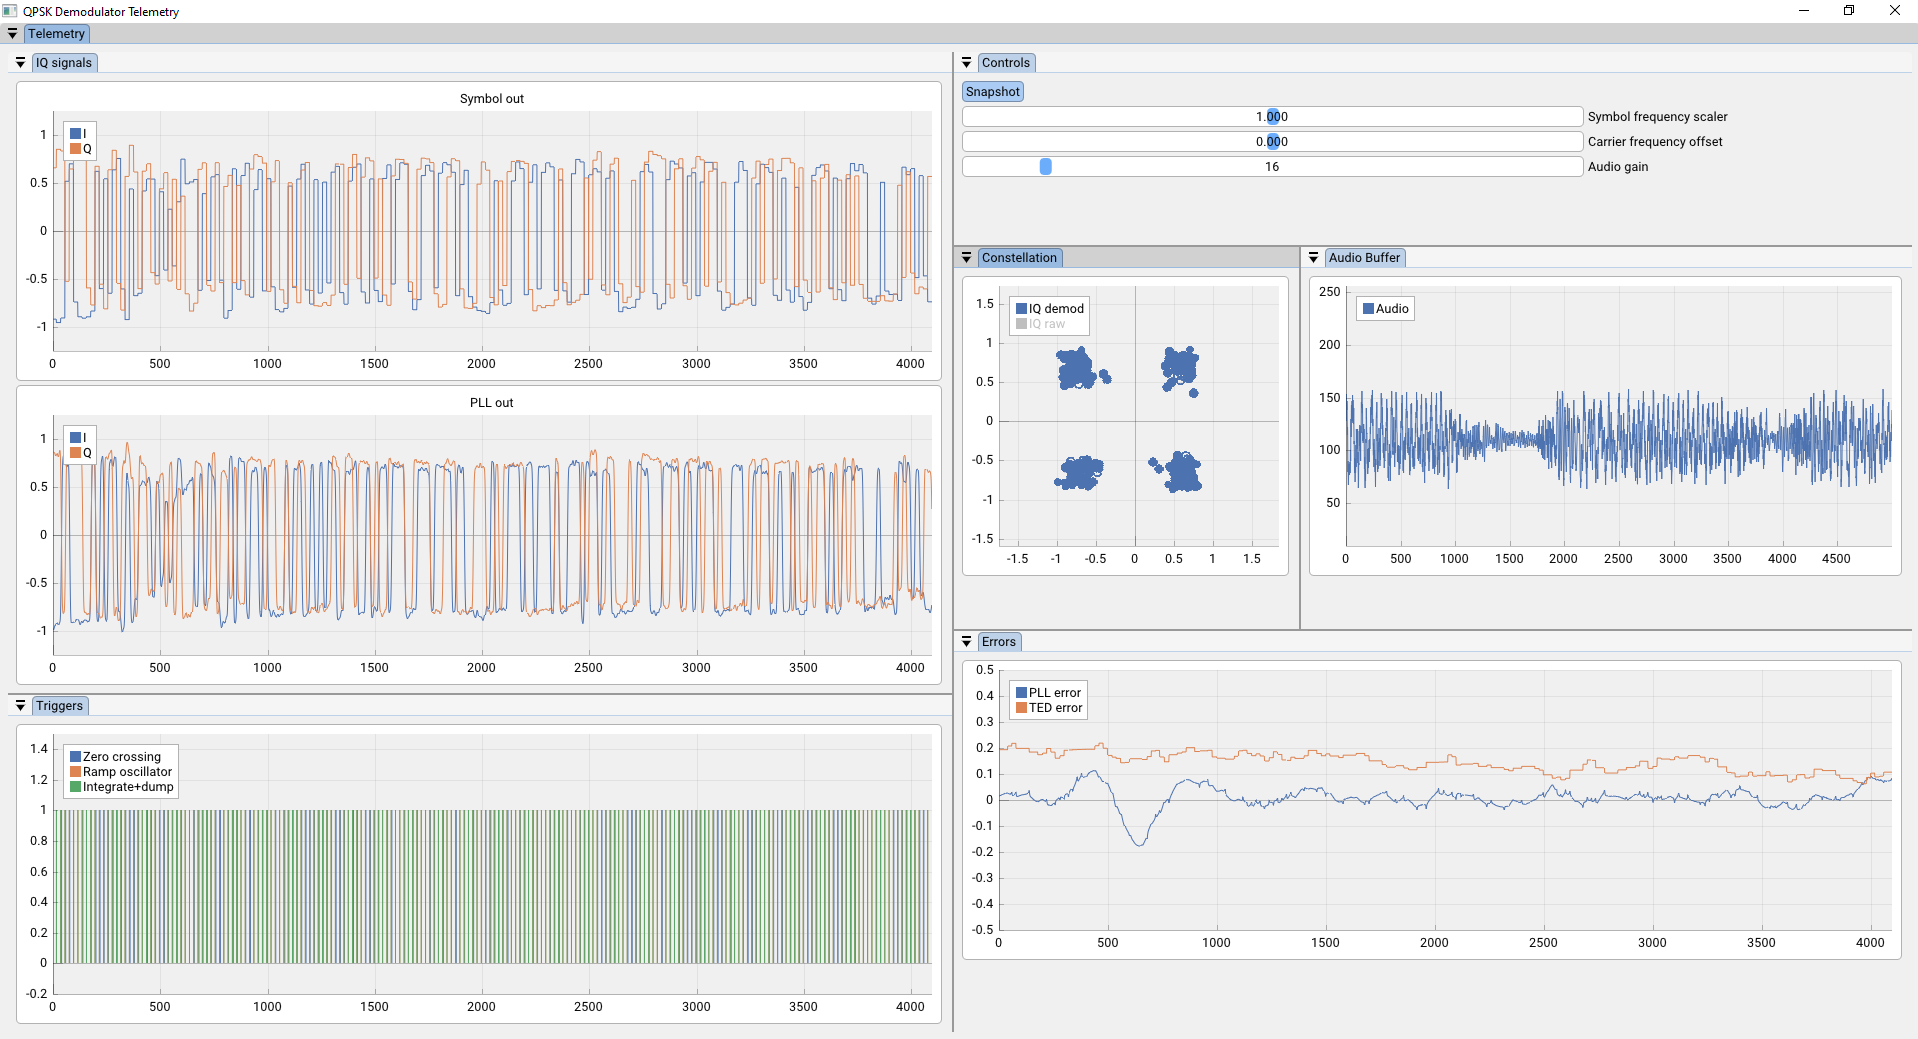
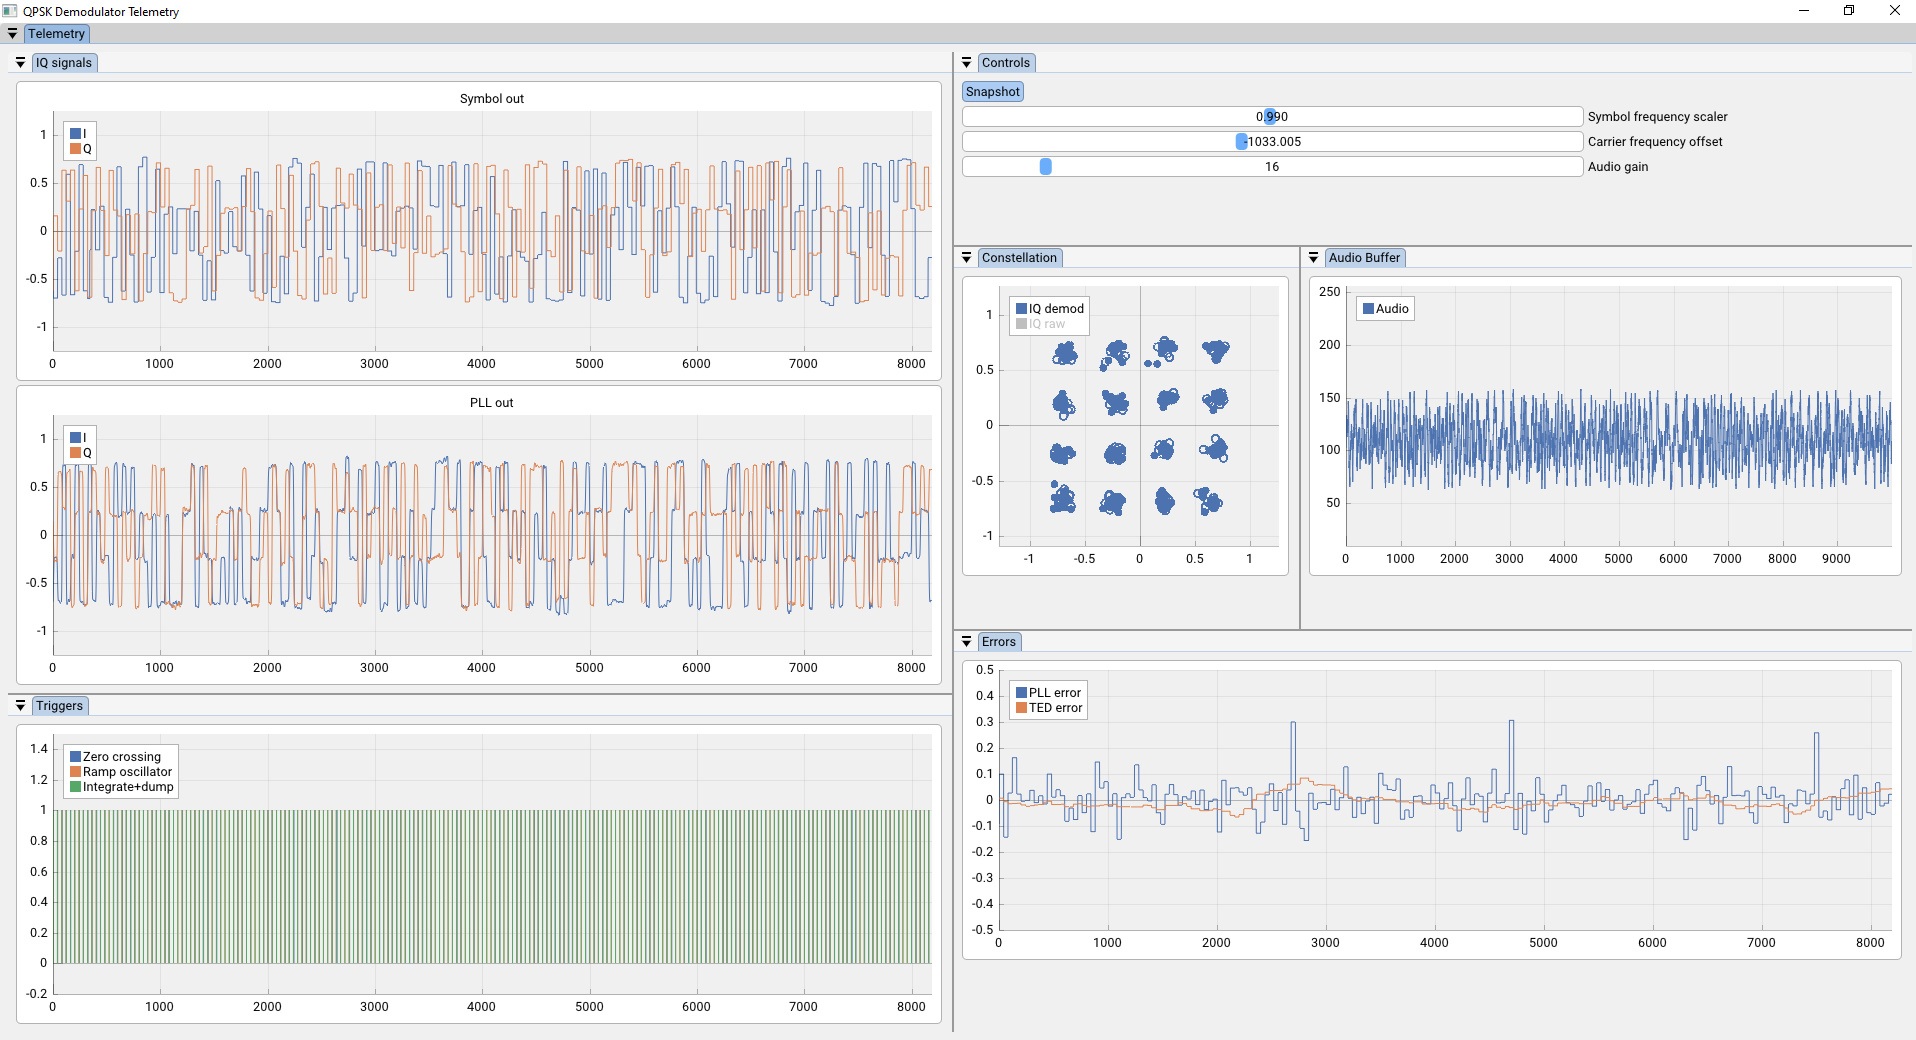
Updated for 16QAM at 50kHz symbol

diff --git a/transmitter/transmitter/main.c b/transmitter/transmitter/main.c
@@ -114,18 +114,20 @@ int main(void)
 	//       Page 15 - Reset and Interrupt Handling - "The lower the address the higher is the priority level"
 	TCCR0A = (1 << WGM01);
 	TCCR0B = (1 << CS01); // Prescaler = 8
-	#if USE_16QAM
-	OCR0A = 79;			  // F = 25kHz
-	#else
 	OCR0A = 39;			  // F = 50kHz
-	#endif
 		
 	TIMSK0 = (1 << OCIE0A);
 	
 	// setup Timer 2 channel A for ADC sampling @ 5kHz ===> 5kB/s
+	// If we are using 16QAM we have double the bit rate
+	// Therefore we can double the ADC sampling rate
 	TCCR2A = (1 << WGM21);
 	TCCR2B = (1 << CS21) | (1 << CS20); // Prescaler = 32
+	#if USE_16QAM
+	OCR2A = 49;							// F = 10kHz
+	#else
 	OCR2A = 99;							// F = 5kHz
+	#end
 	TIMSK2 = (1 << OCIE2A);
 	
 	// ADC setup
@@ -184,7 +186,7 @@ int main(void)
 		int tx_buf_byte = 0;
 		tx_buf_byte += generate_packet(ADC_BUFFER_RD, ADC_BUFFER_SIZE, &tx_buf[tx_buf_byte]);
 		
-		// NOTE: message is preencoded to save performance
+		// NOTE: message is pre-encoded to save performance
 		// tx_buf_byte += generate_packet(SAMPLE_MESSAGE, SAMPLE_MESSAGE_LENGTH, &tx_buf[tx_buf_byte]);
 		
 		#if DEBUG_SIGNALS
@@ -229,6 +231,7 @@ ISR(TIMER0_COMPA_vect) {
 	
 	const uint8_t b = TX_BUFFER_RD[curr_tx_rd_byte];
 	
+	
 	#if USE_16QAM
 	PORTD = (b << tx_buffer_byte_shift) & 0b11110000;
 	tx_buffer_byte_shift += 4;
@@ -237,6 +240,7 @@ ISR(TIMER0_COMPA_vect) {
 		curr_tx_rd_byte++;
 	}
 	#else	
+	// If we are using 4QAM, we have 2 bits per symbol
 	const uint8_t i = (b >> tx_buffer_byte_shift) & 0b11;
 	PORTD = qam_data[i];
 	tx_buffer_byte_shift -= 2;

diff --git a/receiver/src/carrier_dsp.cpp b/receiver/src/carrier_dsp.cpp
@@ -91,7 +91,7 @@ CarrierToSymbolDemodulator::CarrierToSymbolDemodulator(const int _block_size)
     // Fs = 250e3;
     Fs = 2e6;
     Ts = 1.0f/Fs;
-    Fsymbol = 25e3;
+    Fsymbol = 50e3;
     Tsymbol = 1/Fsymbol;
     Nsymbol = (int)std::floorf(Fs/Fsymbol);
 

diff --git a/receiver/src/view_data.cpp b/receiver/src/view_data.cpp
@@ -146,7 +146,7 @@ int main(int argc, char** argv)
 
     auto render_buffer = demod_buffer;
 
-    const int audio_buffer_size = 5000;
+    const int audio_buffer_size = 10000;
     uint8_t audio_buffer[audio_buffer_size] = {0};
     int audio_gain = 16;
     
